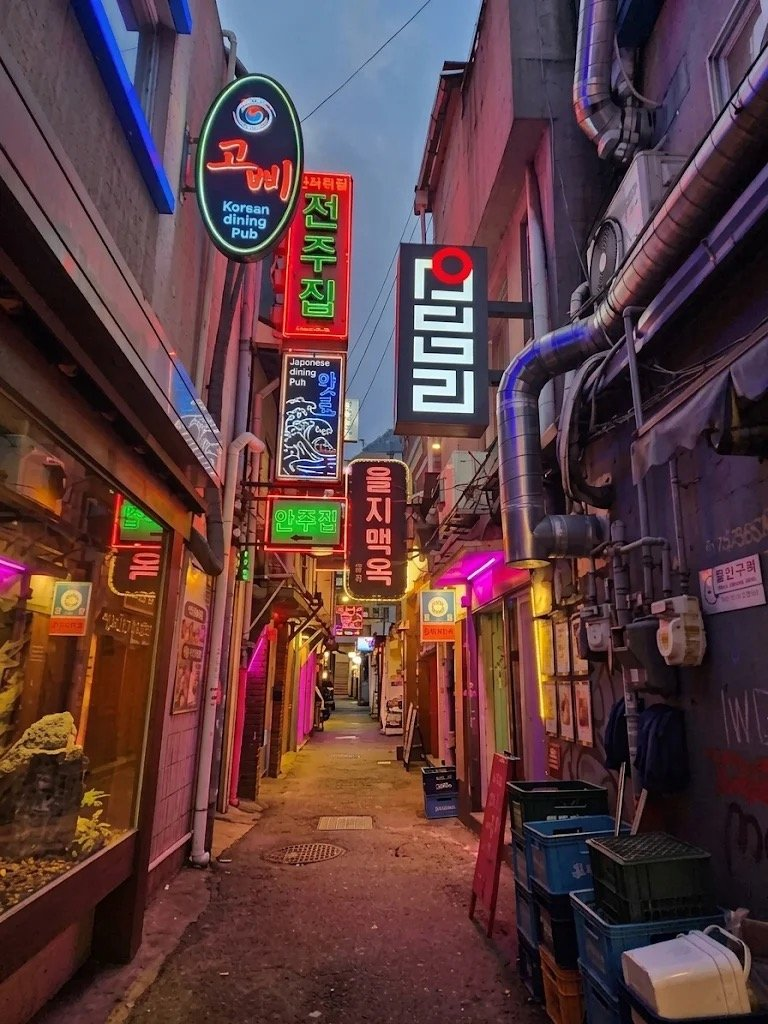
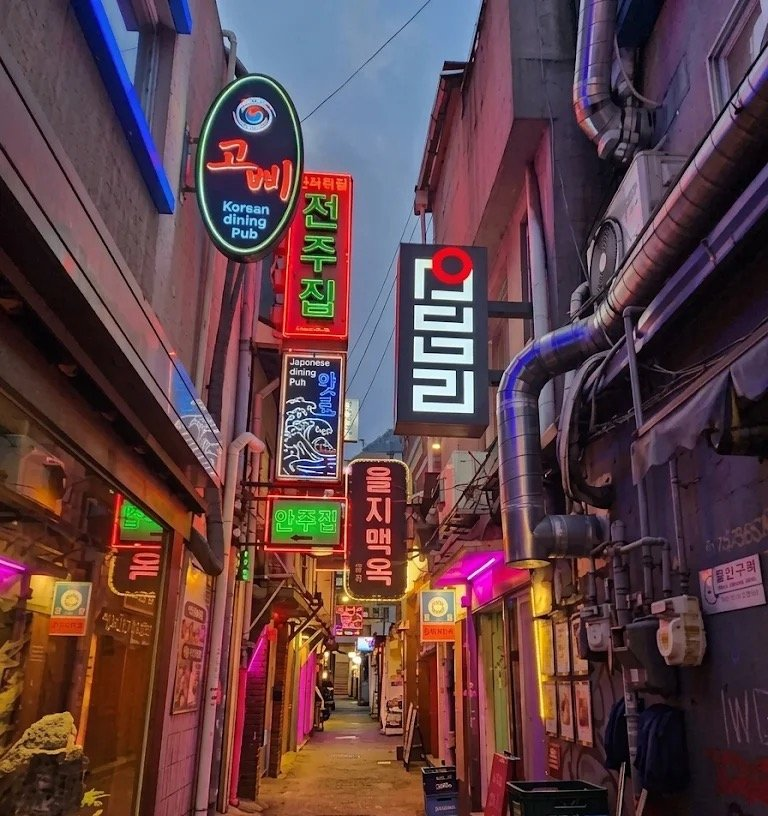
Add the Euljiro map, Night market and Pub pills, and a shorter header photo

diff --git a/src/data/travel.ts b/src/data/travel.ts
@@ -6,7 +6,7 @@
 
 // Tags are shown as pills under the path title. A plain string can start
 // with an emoji; for a drawn icon use { icon, label } (see TagIcon.tsx).
-export type TagIconName = 'hiker' | 'moon' | 'village' | 'sunset' | 'blossom' | 'hiking' | 'hot' | 'rainy' | 'car' | 'surf' | 'railbike' | 'dmz' | 'art'
+export type TagIconName = 'hiker' | 'moon' | 'village' | 'sunset' | 'blossom' | 'hiking' | 'hot' | 'rainy' | 'car' | 'surf' | 'railbike' | 'dmz' | 'art' | 'lantern' | 'beer'
 export type Tag = string | { icon: TagIconName; label: string }
 
 // Longer text for the detail page: what the walk is, the stages in order and
@@ -231,10 +231,10 @@ export const cities: City[] = [
         name: 'Euljiro after dark',
         seoTitle: 'Euljiro night walk: Hipjiro bars and Nogari Alley',
         seoDescription:
-          'A 3.7 km evening walk in Euljiro, Seoul: the old lighting shops, a neon lane, the Hipjiro printing alleys and beer on plastic stools in Nogari Alley.',
+          'A 3.6 km evening walk in Euljiro, Seoul: the old lighting shops, a neon lane, the Hipjiro printing alleys and beer on plastic stools in Nogari Alley.',
         duration: '2.5h',
-        updated: '2026-11-15',
-        tags: [{ icon: 'moon', label: 'Evening walk' }],
+        updated: '2026-11-16',
+        tags: [{ icon: 'lantern', label: 'Night market' }, { icon: 'beer', label: 'Pub' }],
         image: 'euljiro.jpg',
         imageCredit: 'Photo: Seoul Tourism Organization · KOGL 1',
         whyVisit: [
@@ -267,12 +267,13 @@ export const cities: City[] = [
             source: 'Seoul Metropolitan Government fact briefing (Mediahub) and Dailian, 2025: park plan, first stage at Sampung Arcade targeted for the first half of 2026. Progress not confirmed.',
           },
         ],
-        mapUrl: '',
+        mapUrl: 'https://www.google.com/maps/d/viewer?mid=1xo2EGhtRX3otJwlRLIsNn3H85iOpR6U',
         keywords: ['Seoul', 'Euljiro', 'Hipjiro', 'NogariAlley', 'EuljiroLighting', 'NightWalk', 'SeoulBars', 'KoreaTravel'],
         guide: {
           intro: [
             "🌆 Start at **Euljiro 4-ga** around half past five on a weekday or Saturday, while the lighting shops are still lit, then walk west into the alleys as it gets dark. You finish after Nogari Alley in the narrow alleys by exit 1 of Euljiro 3-ga Station.",
-            "It's 3.7 km and flat. Most bars and cafés are on the second to fourth floors: look up for the lights, and don't be shy about climbing an unmarked staircase.",
+            "It's 3.6 km and flat. Most bars and cafés are on the second to fourth floors: look up for the lights, and don't be shy about climbing an unmarked staircase.",
+            "🔦 The line on the map is only our way through. Euljiro is a maze of tiny alleys, and the best finds are often one turn off it: a lit staircase, a sign with no name, a print shop still working late. **Wander into the alleys around the line** whenever one looks interesting; the map will bring you back.",
           ],
           route: [
             "[[The lighting shop street|서울 을지로 조명거리]] on Changgyeonggung-ro and along Euljiro: shop fronts full of lamps, at their best at dusk.",
@@ -285,6 +286,7 @@ export const cities: City[] = [
           ],
           tips: [
             "🚇 Start at **Euljiro 4-ga Station** (lines 2 and 5) and finish at **Euljiro 3-ga Station** (lines 2 and 3), one stop apart.",
+            "🥟 Hungry before you start? **Gwangjang Market** is a few minutes' walk north of Euljiro 4-ga.",
             "🍻 Food and drinks: the pink pins on the map are rated 4.0 or more on Kakao Map, from a chicken soup set served since 1968 to ox bone soup, tacos and craft beer.",
             "💵 Bring some cash for Nogari Alley: several places there take no cards.",
           ],

diff --git a/src/components/TagIcon.tsx b/src/components/TagIcon.tsx
@@ -1,6 +1,6 @@
 import { FaCar } from 'react-icons/fa'
-import { FaBicycle, FaFire, FaMoon, FaPersonHiking } from 'react-icons/fa6'
-import { GiBarbedWire, GiHiking, GiSunset, GiVillage } from 'react-icons/gi'
+import { FaBeerMugEmpty, FaBicycle, FaFire, FaMoon, FaPersonHiking } from 'react-icons/fa6'
+import { GiBarbedWire, GiHiking, GiPaperLantern, GiSunset, GiVillage } from 'react-icons/gi'
 import { LuFlower, LuPalette, LuUmbrella } from 'react-icons/lu'
 import { MdSurfing } from 'react-icons/md'
 import type { TagIconName } from '../data/travel'
@@ -35,5 +35,9 @@ export default function TagIcon({ name }: { name: TagIconName }) {
       return <GiBarbedWire className="tag-icon" aria-hidden="true" />
     case 'art':
       return <LuPalette className="tag-icon" aria-hidden="true" />
+    case 'lantern':
+      return <GiPaperLantern className="tag-icon" aria-hidden="true" />
+    case 'beer':
+      return <FaBeerMugEmpty className="tag-icon" aria-hidden="true" />
   }
 }

diff --git a/src/index.css b/src/index.css
@@ -361,6 +361,14 @@ a:focus-visible {
   background: light-dark(#ede9fe, #4c1d95);
   color: light-dark(#6d28d9, #ddd6fe);
 }
+.pill.tag-lantern {
+  background: light-dark(#e0e7ff, #312e81);
+  color: light-dark(#3730a3, #c7d2fe);
+}
+.pill.tag-beer {
+  background: light-dark(#fef9c3, #713f12);
+  color: light-dark(#a16207, #fef08a);
+}
 .tag-icon {
   width: 13px;
   height: 13px;
